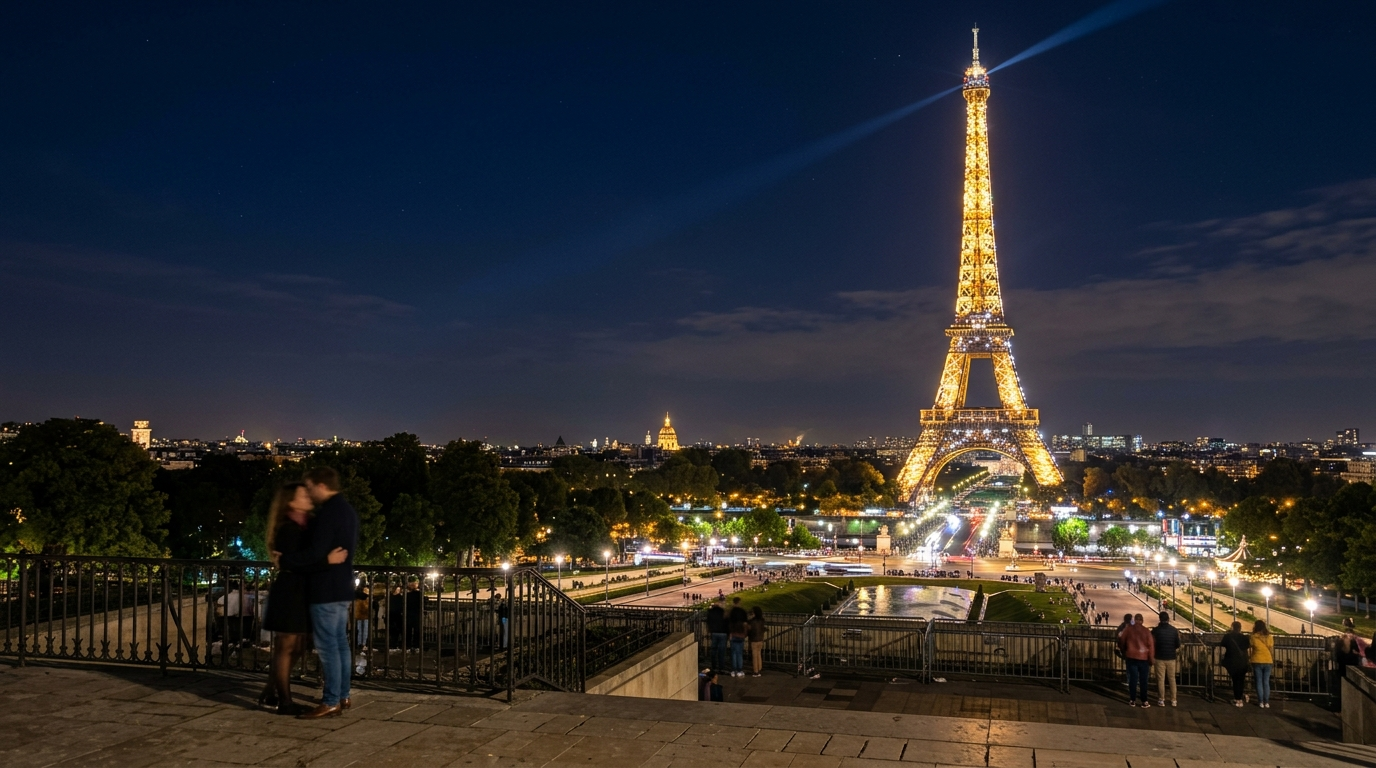
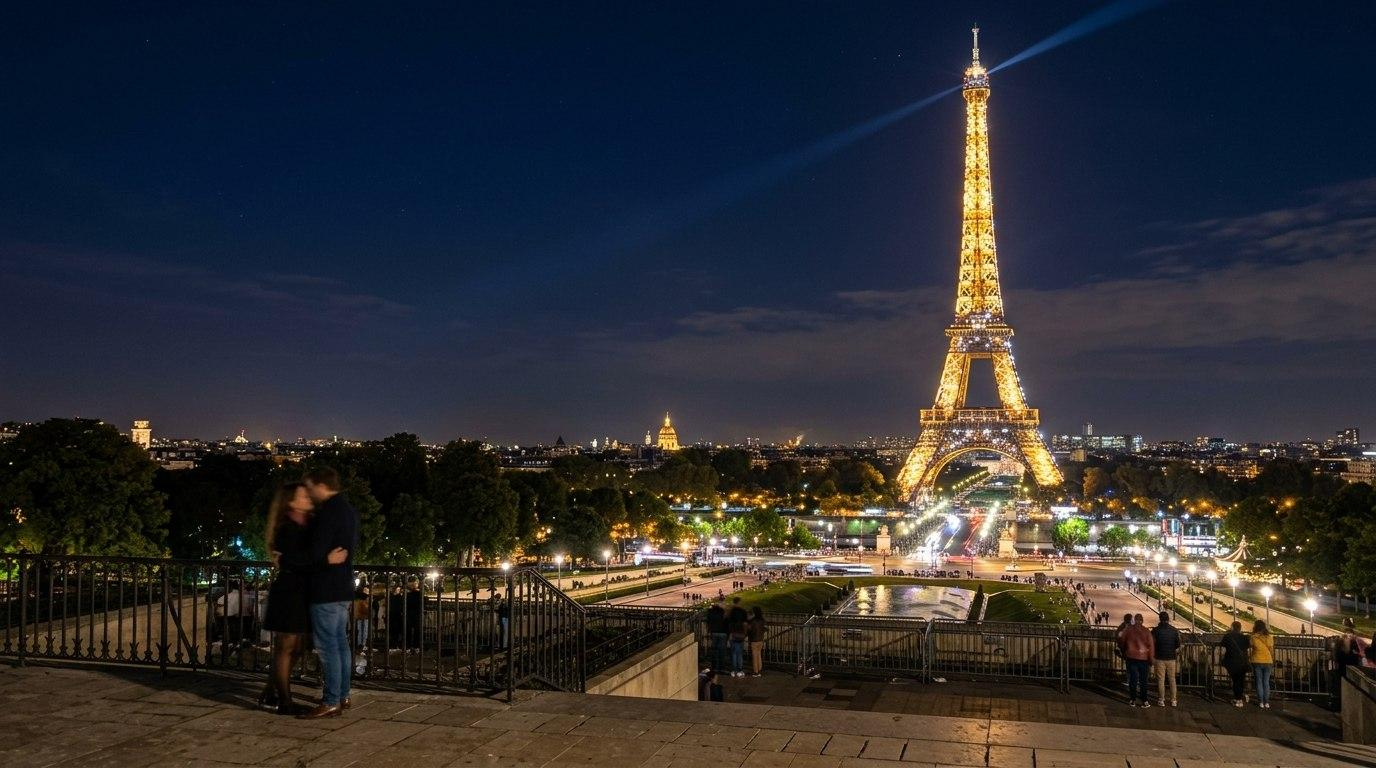
fix: finalize tourist attraction image matching

diff --git a/frontend/src/components/auth/TouristAttractionCarousel.jsx b/frontend/src/components/auth/TouristAttractionCarousel.jsx
@@ -7,8 +7,8 @@ const attractions = [
     name: 'Boracay',
     country: 'Aklan, Philippines',
     description: 'Powder-soft white sand beaches, crystalline waters,\nand vibrant world-renowned tropical sunsets.',
-    dayImage: 'https://images.unsplash.com/photo-1540555700478-4be289fbecef?auto=format&fit=crop&w=1600&q=80',
-    nightImage: 'https://images.unsplash.com/photo-1510414842594-a61c69b5ae57?auto=format&fit=crop&w=1600&q=80'
+    dayImage: '/images/attractions/boracay-day.jpg',
+    nightImage: '/images/attractions/boracay-night.jpg'
   },
   {
     id: 'santorini',
@@ -23,8 +23,8 @@ const attractions = [
     name: 'El Nido',
     country: 'Palawan, Philippines',
     description: 'Towering limestone karst cliffs, hidden lagoons,\nand untouched biodiversity in Bacuit Bay.',
-    dayImage: 'https://images.unsplash.com/photo-1518509562904-e7ef99cdcc86?auto=format&fit=crop&w=1600&q=80',
-    nightImage: 'https://images.unsplash.com/photo-1507525428034-b723cf961d3e?auto=format&fit=crop&w=1600&q=80'
+    dayImage: '/images/attractions/el-nido-day.jpg',
+    nightImage: '/images/attractions/el-nido-night.jpg'
   },
   {
     id: 'kyoto',
@@ -39,8 +39,8 @@ const attractions = [
     name: 'Coron',
     country: 'Palawan, Philippines',
     description: 'Emerald alpine lakes, vibrant coral reefs,\nand historic shipwreck dive adventures.',
-    dayImage: 'https://images.unsplash.com/photo-1531761535209-180857e963b9?auto=format&fit=crop&w=1600&q=80',
-    nightImage: 'https://images.unsplash.com/photo-1509233725247-49e657c54213?auto=format&fit=crop&w=1600&q=80'
+    dayImage: '/images/attractions/coron-day.jpg',
+    nightImage: '/images/attractions/coron-night.jpg'
   },
   {
     id: 'paris',
@@ -55,8 +55,8 @@ const attractions = [
     name: 'Chocolate Hills',
     country: 'Bohol, Philippines',
     description: 'Over a thousand symmetrical conical hills\nblanketing lush countryside like natural monuments.',
-    dayImage: 'https://images.unsplash.com/photo-1518548419970-58e3b4079ab2?auto=format&fit=crop&w=1600&q=80',
-    nightImage: 'https://images.unsplash.com/photo-1506744038136-46273834b3fb?auto=format&fit=crop&w=1600&q=80'
+    dayImage: '/images/attractions/chocolate-hills-day.jpg',
+    nightImage: '/images/attractions/chocolate-hills-night.jpg'
   },
   {
     id: 'swiss-alps',
@@ -71,24 +71,24 @@ const attractions = [
     name: 'Banaue Rice Terraces',
     country: 'Ifugao, Philippines',
     description: 'Two-millennia-old hand-carved agricultural marvels\nflowing gracefully across the Cordillera mountains.',
-    dayImage: 'https://images.unsplash.com/photo-1528181304800-259b08848526?auto=format&fit=crop&w=1600&q=80',
-    nightImage: 'https://images.unsplash.com/photo-1519681393784-d120267933ba?auto=format&fit=crop&w=1600&q=80'
+    dayImage: '/images/attractions/banaue-day.jpg',
+    nightImage: '/images/attractions/banaue-night.jpg'
   },
   {
     id: 'tokyo',
     name: 'Tokyo',
     country: 'Japan',
     description: 'Discover futuristic cityscapes, vibrant night districts,\nand rich traditional heritage side-by-side.',
-    dayImage: 'https://images.unsplash.com/photo-1503899036084-c55cdd92da26?auto=format&fit=crop&w=1600&q=80',
-    nightImage: 'https://images.unsplash.com/photo-1536098565842-c4b11ac5d194?auto=format&fit=crop&w=1600&q=80'
+    dayImage: '/images/attractions/tokyo-day.jpg',
+    nightImage: '/images/attractions/tokyo-night.jpg'
   },
   {
     id: 'siargao',
     name: 'Siargao',
     country: 'Surigao del Norte, Philippines',
     description: 'The surfing capital of the Philippines with swaying palms,\ntidal rock pools, and laid-back island charm.',
-    dayImage: 'https://images.unsplash.com/photo-1502680390469-be75c86b636f?auto=format&fit=crop&w=1600&q=80',
-    nightImage: 'https://images.unsplash.com/photo-1518709268805-4e9042af9f23?auto=format&fit=crop&w=1600&q=80'
+    dayImage: '/images/attractions/siargao-day.jpg',
+    nightImage: '/images/attractions/siargao-night.jpg'
   },
   {
     id: 'venice',
@@ -103,80 +103,80 @@ const attractions = [
     name: 'Mayon Volcano',
     country: 'Albay, Philippines',
     description: 'Renowned for its symmetrical cone silhouette,\nrising dramatically above lush green landscapes.',
-    dayImage: 'https://images.unsplash.com/photo-1618773928121-c32242e63f39?auto=format&fit=crop&w=1600&q=80',
-    nightImage: 'https://images.unsplash.com/photo-1506744038136-46273834b3fb?auto=format&fit=crop&w=1600&q=80'
+    dayImage: '/images/attractions/mayon-day.jpg',
+    nightImage: '/images/attractions/mayon-night.jpg'
   },
   {
     id: 'new-york',
     name: 'New York',
     country: 'United States',
-    description: 'Feel the energy of the world’s most iconic skyline,\nlimitless culture, and illuminated avenues.',
-    dayImage: 'https://images.unsplash.com/photo-1534430480872-3498386e7856?auto=format&fit=crop&w=1600&q=80',
-    nightImage: 'https://images.unsplash.com/photo-1518235506717-e1ed3306a89b?auto=format&fit=crop&w=1600&q=80'
+    description: 'Feel the energy of the world\'s most iconic skyline,\nlimitless culture, and illuminated avenues.',
+    dayImage: '/images/attractions/new-york-day.jpg',
+    nightImage: '/images/attractions/new-york-night.jpg'
   },
   {
     id: 'kawasan',
     name: 'Kawasan Falls',
     country: 'Cebu, Philippines',
     description: 'Turquoise multi-tiered cascade pools sheltered\nby lush rainforests in southern Cebu.',
-    dayImage: 'https://images.unsplash.com/photo-1432405972618-c60b0225b8f9?auto=format&fit=crop&w=1600&q=80',
-    nightImage: 'https://images.unsplash.com/photo-1470240731273-7821a6eeb6bd?auto=format&fit=crop&w=1600&q=80'
+    dayImage: '/images/attractions/kawasan-day.jpg',
+    nightImage: '/images/attractions/kawasan-night.jpg'
   },
   {
     id: 'rome',
     name: 'Rome',
     country: 'Italy',
     description: 'Step into ancient history through timeless Colosseum vistas,\npiazzas, and golden hour warmth.',
-    dayImage: 'https://images.unsplash.com/photo-1552832230-c0197dd311b5?auto=format&fit=crop&w=1600&q=80',
-    nightImage: 'https://images.unsplash.com/photo-1515542622106-78bda8ba0e5b?auto=format&fit=crop&w=1600&q=80'
+    dayImage: '/images/attractions/rome-day.jpg',
+    nightImage: '/images/attractions/rome-night.jpg'
   },
   {
     id: 'batanes',
     name: 'Batanes',
     country: 'Batanes, Philippines',
     description: 'Rolling hills meeting rugged Pacific coastlines,\ntraditional stone houses, and timeless peace.',
-    dayImage: 'https://images.unsplash.com/photo-1507525428034-b723cf961d3e?auto=format&fit=crop&w=1600&q=80',
-    nightImage: 'https://images.unsplash.com/photo-1519681393784-d120267933ba?auto=format&fit=crop&w=1600&q=80'
+    dayImage: '/images/attractions/batanes-day.jpg',
+    nightImage: '/images/attractions/batanes-night.jpg'
   },
   {
     id: 'bali',
     name: 'Bali',
     country: 'Indonesia',
     description: 'Immerse yourself in lush emerald terraces, sacred temples,\nand tranquil coastal sunsets.',
-    dayImage: 'https://images.unsplash.com/photo-1537996194471-e657df975ab4?auto=format&fit=crop&w=1600&q=80',
-    nightImage: 'https://images.unsplash.com/photo-1555400038-63f5ba517a47?auto=format&fit=crop&w=1600&q=80'
+    dayImage: '/images/attractions/bali-day.jpg',
+    nightImage: '/images/attractions/bali-night.jpg'
   },
   {
     id: 'intramuros',
     name: 'Intramuros',
     country: 'Manila, Philippines',
     description: 'The historic walled heart of Manila with cobblestone streets,\ncolonial fortifications, and timeless charm.',
-    dayImage: 'https://images.unsplash.com/photo-1578632767115-351597cf2477?auto=format&fit=crop&w=1600&q=80',
-    nightImage: 'https://images.unsplash.com/photo-1514565131-fce0801e5785?auto=format&fit=crop&w=1600&q=80'
+    dayImage: '/images/attractions/intramuros-day.jpg',
+    nightImage: '/images/attractions/intramuros-night.jpg'
   },
   {
     id: 'sydney',
     name: 'Sydney',
     country: 'Australia',
     description: 'Marvel at the sparkling harbor waters, iconic Opera House,\nand world-famous coastal lifestyle.',
-    dayImage: 'https://images.unsplash.com/photo-1506973035872-a4ec16b8e8d9?auto=format&fit=crop&w=1600&q=80',
-    nightImage: 'https://images.unsplash.com/photo-1528072164453-f4e8ef0d475a?auto=format&fit=crop&w=1600&q=80'
+    dayImage: '/images/attractions/sydney-day.jpg',
+    nightImage: '/images/attractions/sydney-night.jpg'
   },
   {
     id: 'banff',
     name: 'Banff',
     country: 'Canada',
     description: 'Experience crystal turquoise glacial lakes, towering Rockies,\nand pristine starry wilderness.',
-    dayImage: 'https://images.unsplash.com/photo-1509316975850-ff9c5deb0cd9?auto=format&fit=crop&w=1600&q=80',
-    nightImage: 'https://images.unsplash.com/photo-1464822759023-fed622ff2c3b?auto=format&fit=crop&w=1600&q=80'
+    dayImage: '/images/attractions/banff-day.jpg',
+    nightImage: '/images/attractions/banff-night.jpg'
   },
   {
     id: 'dubai',
     name: 'Dubai',
     country: 'United Arab Emirates',
     description: 'Gaze upon record-breaking architectural marvels,\nluxurious desert horizons, and golden skylines.',
-    dayImage: 'https://images.unsplash.com/photo-1512453979798-5ea266f8880c?auto=format&fit=crop&w=1600&q=80',
-    nightImage: 'https://images.unsplash.com/photo-1518684079-3c830dcef090?auto=format&fit=crop&w=1600&q=80'
+    dayImage: '/images/attractions/dubai-day.jpg',
+    nightImage: '/images/attractions/dubai-night.jpg'
   }
 ];
 
